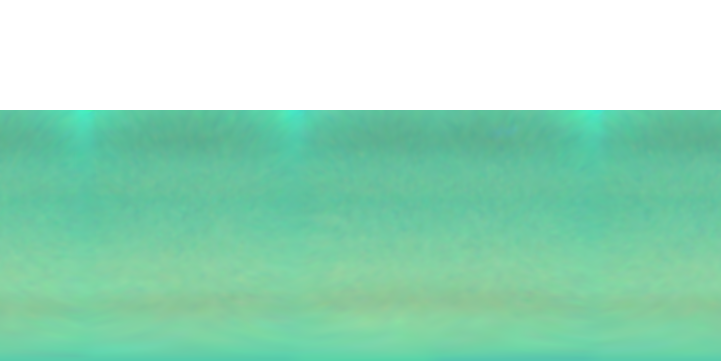
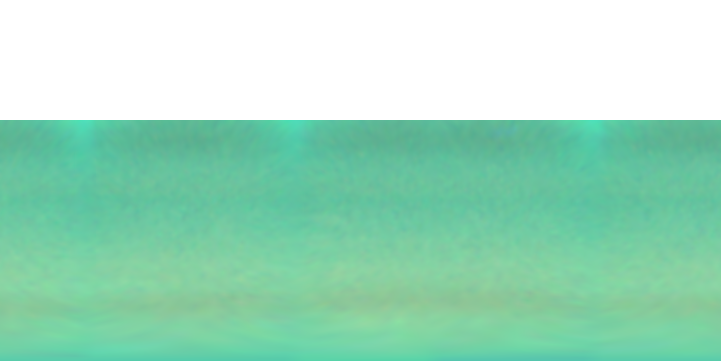
Exclude limb and seam artifacts from the Uranus and Neptune printable bands
The Uranus band ran to -10° latitude, but rows between -5° and -10° carry
the rainbow limb and seam fringes of the OPAL mosaic: row brightness
spread climbs from 1.4 grey levels in the interior to 24.3 at -10°. The
band now ends at -4°, where the spread is 1.7.

Neptune's band ended at +35°, the brightest part of three seam-brightening
patches spaced about 110° apart along the top of the map. The band now
ends at +30°; the docs say faint seam brightening can remain between about
+15° and +30°. Default selections for both worlds are unchanged.

The bundled PNG masks, the reproduction script and the coverage table in
docs/GIANT-PLANETS.md carry the same bands.

Claude-Session: https://claude.ai/code/session_01RUb2d2wdZmq67iAiZmi4uR

Changed region(s): [[0.0, 0.3047, 1.0, 0.3352]]

diff --git a/site/giant-core.js b/site/giant-core.js
@@ -6,8 +6,8 @@ const acknowledgement='This work used data acquired from the NASA/ESA HST Space 
 const maps={
  jupiter:{name:'Jupiter',radiusKm:71492,width:3600,height:1598,north:79.9,south:-79.9,bands:[[-79.9,79.9]],panelBand:[-79.9,79.9],path:'data/jupiter/opal-2015-3600.jpg',label:'Hubble OPAL 2015-01-19',source:'https://science.nasa.gov/asset/hubble/jupiter-global-map-from-hubble-opal-data-rotation-1/',filters:'395/502/631 nm',dot:'#d7ac7e',maxSize:120000,lat:-22.4,lon:54,size:35000},
  saturn:{name:'Saturn',radiusKm:60268,width:1800,height:900,north:90,south:-90,bands:[[-65,-8],[5,75]],panelBand:[5,75],path:'data/saturn/opal-2024.png',label:'Hubble OPAL 2024-08-22, rotation A',source:'https://archive.stsci.edu/hlsp/opal/opal-saturn-cycle-31',filters:'395/502/631 nm',dot:'#d8c69c',maxSize:100000,lat:35,lon:0,size:35000},
- uranus:{name:'Uranus',radiusKm:25559,width:721,height:361,north:90,south:-90,bands:[[-10,90]],panelBand:[-10,90],path:'data/uranus/opal-2023.png',label:'Hubble OPAL 2023-09-17, rotation A',source:'https://archive.stsci.edu/hlsp/opal/opal-uranus-cycle-31',filters:'467/547/657 nm',dot:'#83cdd5',maxSize:42000,lat:35,lon:0,size:20000},
- neptune:{name:'Neptune',radiusKm:24764,width:721,height:361,north:90,south:-90,bands:[[-90,35]],panelBand:[-90,35],path:'data/neptune/opal-2025.png',label:'Hubble OPAL 2025-06-28, rotation A',source:'https://archive.stsci.edu/hlsp/opal/opal-neptune-cycle-31',filters:'467/547/657 nm',dot:'#679ebf',maxSize:40000,lat:-30,lon:0,size:20000}
+ uranus:{name:'Uranus',radiusKm:25559,width:721,height:361,north:90,south:-90,bands:[[-4,90]],panelBand:[-4,90],path:'data/uranus/opal-2023.png',label:'Hubble OPAL 2023-09-17, rotation A',source:'https://archive.stsci.edu/hlsp/opal/opal-uranus-cycle-31',filters:'467/547/657 nm',dot:'#83cdd5',maxSize:42000,lat:35,lon:0,size:20000},
+ neptune:{name:'Neptune',radiusKm:24764,width:721,height:361,north:90,south:-90,bands:[[-90,30]],panelBand:[-90,30],path:'data/neptune/opal-2025.png',label:'Hubble OPAL 2025-06-28, rotation A',source:'https://archive.stsci.edu/hlsp/opal/opal-neptune-cycle-31',filters:'467/547/657 nm',dot:'#679ebf',maxSize:40000,lat:-30,lon:0,size:20000}
 };
 for(const m of Object.values(maps)){m.credit=credit;m.acknowledgement=acknowledgement;}
 function coverage(key){return maps[key].bands.map(([s,n])=>`${s}° to ${n}°`).join(' and ');}

diff --git a/source/giant-core.js b/source/giant-core.js
@@ -6,8 +6,8 @@ const acknowledgement='This work used data acquired from the NASA/ESA HST Space 
 const maps={
  jupiter:{name:'Jupiter',radiusKm:71492,width:3600,height:1598,north:79.9,south:-79.9,bands:[[-79.9,79.9]],panelBand:[-79.9,79.9],path:'data/jupiter/opal-2015-3600.jpg',label:'Hubble OPAL 2015-01-19',source:'https://science.nasa.gov/asset/hubble/jupiter-global-map-from-hubble-opal-data-rotation-1/',filters:'395/502/631 nm',dot:'#d7ac7e',maxSize:120000,lat:-22.4,lon:54,size:35000},
  saturn:{name:'Saturn',radiusKm:60268,width:1800,height:900,north:90,south:-90,bands:[[-65,-8],[5,75]],panelBand:[5,75],path:'data/saturn/opal-2024.png',label:'Hubble OPAL 2024-08-22, rotation A',source:'https://archive.stsci.edu/hlsp/opal/opal-saturn-cycle-31',filters:'395/502/631 nm',dot:'#d8c69c',maxSize:100000,lat:35,lon:0,size:35000},
- uranus:{name:'Uranus',radiusKm:25559,width:721,height:361,north:90,south:-90,bands:[[-10,90]],panelBand:[-10,90],path:'data/uranus/opal-2023.png',label:'Hubble OPAL 2023-09-17, rotation A',source:'https://archive.stsci.edu/hlsp/opal/opal-uranus-cycle-31',filters:'467/547/657 nm',dot:'#83cdd5',maxSize:42000,lat:35,lon:0,size:20000},
- neptune:{name:'Neptune',radiusKm:24764,width:721,height:361,north:90,south:-90,bands:[[-90,35]],panelBand:[-90,35],path:'data/neptune/opal-2025.png',label:'Hubble OPAL 2025-06-28, rotation A',source:'https://archive.stsci.edu/hlsp/opal/opal-neptune-cycle-31',filters:'467/547/657 nm',dot:'#679ebf',maxSize:40000,lat:-30,lon:0,size:20000}
+ uranus:{name:'Uranus',radiusKm:25559,width:721,height:361,north:90,south:-90,bands:[[-4,90]],panelBand:[-4,90],path:'data/uranus/opal-2023.png',label:'Hubble OPAL 2023-09-17, rotation A',source:'https://archive.stsci.edu/hlsp/opal/opal-uranus-cycle-31',filters:'467/547/657 nm',dot:'#83cdd5',maxSize:42000,lat:35,lon:0,size:20000},
+ neptune:{name:'Neptune',radiusKm:24764,width:721,height:361,north:90,south:-90,bands:[[-90,30]],panelBand:[-90,30],path:'data/neptune/opal-2025.png',label:'Hubble OPAL 2025-06-28, rotation A',source:'https://archive.stsci.edu/hlsp/opal/opal-neptune-cycle-31',filters:'467/547/657 nm',dot:'#679ebf',maxSize:40000,lat:-30,lon:0,size:20000}
 };
 for(const m of Object.values(maps)){m.credit=credit;m.acknowledgement=acknowledgement;}
 function coverage(key){return maps[key].bands.map(([s,n])=>`${s}° to ${n}°`).join(' and ');}

diff --git a/site/index.html b/site/index.html
@@ -445,9 +445,9 @@ body { background: var(--tp-bg); color: var(--tp-ink); --bs-body-bg: var(--tp-bg
 </style>
 <script src="lib/three.min.js"></script>
 <script src="lib/OrbitControls.js"></script>
-<script src="giant-core.js?v=e508f0c50b"></script>
-<script src="surface-core.js?v=e508f0c50b"></script>
-<script>const BUILD = 'e508f0c50b'; // changes whenever worker.js or core.js change, so browsers never run stale code
+<script src="giant-core.js?v=f9eece675e"></script>
+<script src="surface-core.js?v=f9eece675e"></script>
+<script>const BUILD = 'f9eece675e'; // changes whenever worker.js or core.js change, so browsers never run stale code
 (() => {
 'use strict';
 const $ = id => document.getElementById(id);

diff --git a/tools/build-giant-imagery.py b/tools/build-giant-imagery.py
@@ -14,10 +14,10 @@ SOURCES = [
      (1800, 900), [(-65, -8), (5, 75)], False),
     ('uranus', '2023', 'https://archive.stsci.edu/hlsps/opal/cycle31/uranus/',
      'hlsp_opal_hst_wfc3-uvis_uranus-2023', 'f467m-f547m-f657n',
-     (721, 361), [(-10, 90)], False),
+     (721, 361), [(-4, 90)], False),
     ('neptune', '2025', 'https://archive.stsci.edu/missions/hlsp/opal/cycle31/neptune/',
      'hlsp_opal_hst_wfc3-uvis_neptune-2025', 'f467m-f547m-f657n',
-     (721, 361), [(-90, 35)], True),
+     (721, 361), [(-90, 30)], True),
 ]
 
 if __name__ == '__main__':

diff --git a/docs/GIANT-PLANETS.md b/docs/GIANT-PLANETS.md
@@ -12,10 +12,10 @@ All maps are available offline. The added maps use Hubble OPAL Cycle 31 rotation
 | --- | --- | --- | --- |
 | Jupiter | 2015-01-19 | 3600 × 1598 | −79.9° to +79.9° |
 | Saturn | 2024-08-22 | 1800 × 900 | −65° to −8°, +5° to +75° |
-| Uranus | 2023-09-17 | 721 × 361 | −10° to +90° |
-| Neptune | 2025-06-28 | 721 × 361 | −90° to +35° |
+| Uranus | 2023-09-17 | 721 × 361 | −4° to +90° |
+| Neptune | 2025-06-28 | 721 × 361 | −90° to +30° |
 
-Conservative latitude bands exclude missing polar data, limb artifacts and Saturn's ring-obscured strip. Outside those bands, the globe is gray and generation rejects the selection. No gaps are filled or interpreted as dark clouds. The standalone full-map panel uses a continuous usable strip: Saturn +5° to +75°, Uranus −10° to +90°, Neptune −90° to +35°. “Full-map” means the complete longitude span of that strip.
+Conservative latitude bands exclude missing polar data, limb artifacts and Saturn's ring-obscured strip. Uranus's southern limit sits at −4° because the rows below carry rainbow limb and seam fringes; Neptune's northern limit sits at +30° because the mosaic's three frame seams brighten the top of the map, and faint seam brightening can remain between about +15° and +30°. Outside those bands, the globe is gray and generation rejects the selection. No gaps are filled or interpreted as dark clouds. The standalone full-map panel uses a continuous usable strip: Saturn +5° to +75°, Uranus −4° to +90°, Neptune −90° to +30°. “Full-map” means the complete longitude span of that strip.
 
 The published OPAL maps have different longitude conventions. Terrain Press deliberately retains image-relative longitude for all four worlds (image center = 0; left edge = −180; increasing to the right). These coordinates are not calibrated System III or official east/west longitudes. Latitudes are planetographic; selection distances use an equatorial-radius sphere and are approximate. The source READMEs preserve original conventions and observation details. Transient clouds, mosaic seams, moon transits and processing artifacts can remain in observed areas.
 
